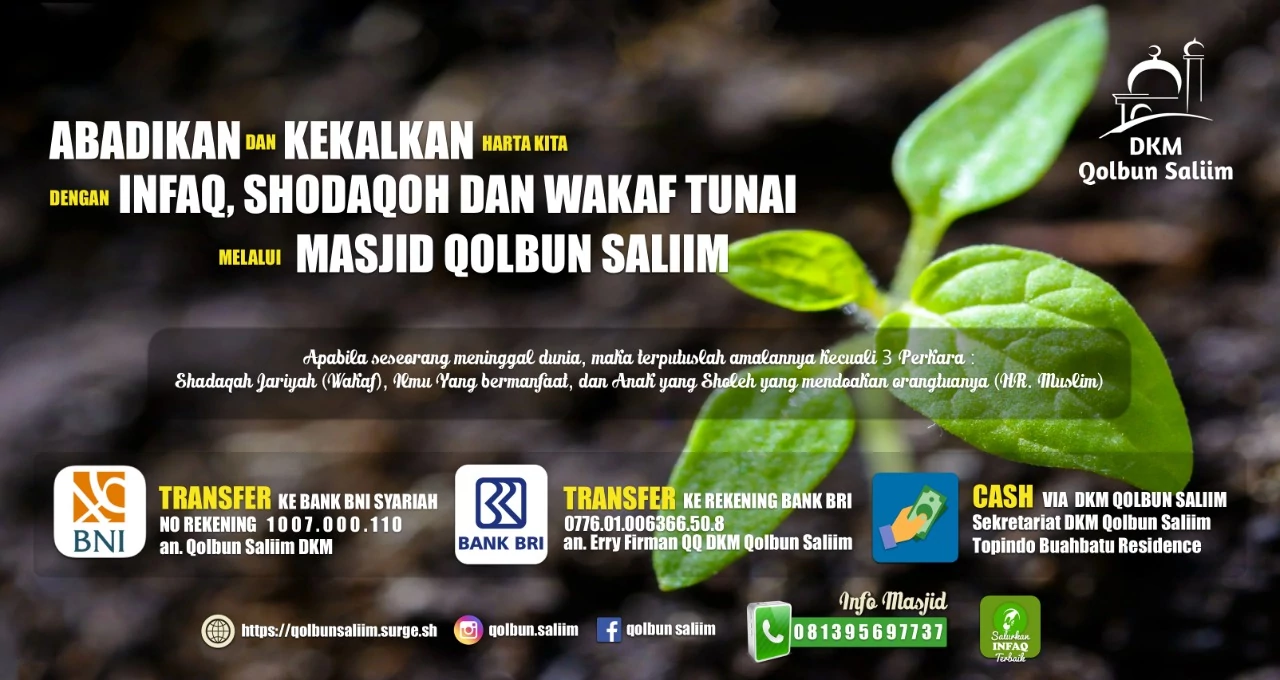
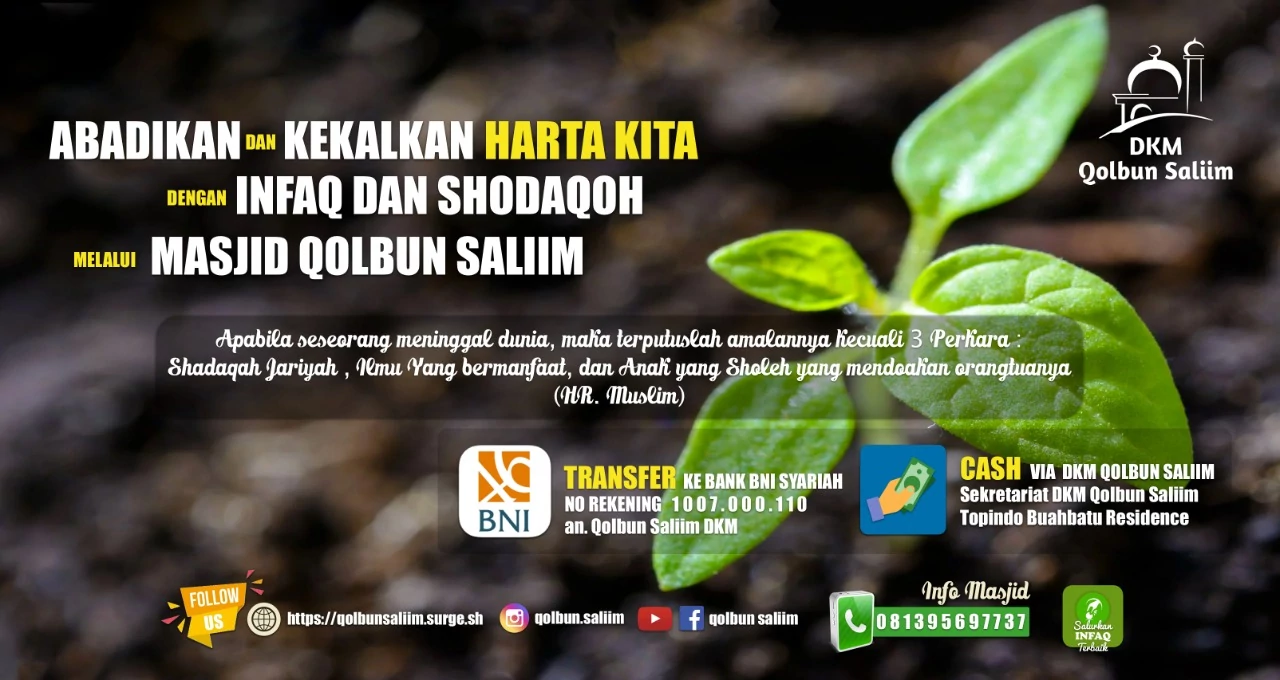
feat: update images and homepage

Changed region(s): [[0.0312, 0.4632, 0.9688, 0.9882], [0.0312, 0.1544, 0.625, 0.4324], [0.0938, 0.4941, 0.125, 0.525]]

diff --git a/src/pages/index.js b/src/pages/index.js
@@ -3,6 +3,7 @@ import { Link } from "gatsby"
 
 import Layout from "../components/layout"
 import img1 from "../images/pengembangan.webp"
+import img2 from "../images/spanduk_maret_2020.webp"
 import SEO from "../components/seo"
 import 'antd/dist/antd.css'
 
@@ -11,7 +12,18 @@ const salam = 'السلام عليكم ورحمة الله وبركاته'
 const IndexPage = () => (
   <Layout>
     <SEO title="Home" />
-    <h1 style={{ textAlign: 'center', margin: '60px auto' }}>Pengembangan Masjid Qolbun Saliim</h1>
+    <h1 style={{ textAlign: 'center', margin: '60px auto' }}>Jadwal Kegiatan Maret 2020</h1>
+    <div style={{ textAlign: 'center', paddingRight: '24px' }}>
+      <div style={{ marginBottom: `1.45rem` }}>
+        <a href="https://drive.google.com/drive/folders/1tqUeZ5de4_i3o6PwElfR7qpLR5MIAGXy?usp=sharing" 
+          target="_blank" 
+          rel="noreferer noopener"
+        >
+          <img src={img2} />
+        </a>
+      </div>
+    </div>
+    <h1 style={{ textAlign: 'center', margin: '160px auto 60px auto' }}>Pengembangan Masjid Qolbun Saliim</h1>
     <div style={{ textAlign: 'center', paddingRight: '24px' }}>
       <p style={{textAlign: 'center', fontSize: '1.5rem'}}>{salam}</p>
       <p>Sehubungan dengan akan dilaksanakannya pengembangan pembangunan Masjid Qolbun Saliim Topindo Buah Batu Residence Bandung, kami dari DKM Qolbun Saliim ingin memberitahukan kepada jamaah bahwa mulai Kamis 13 Februari 2020 akan dimulai aktivitas pembangunan masjid. </p>
